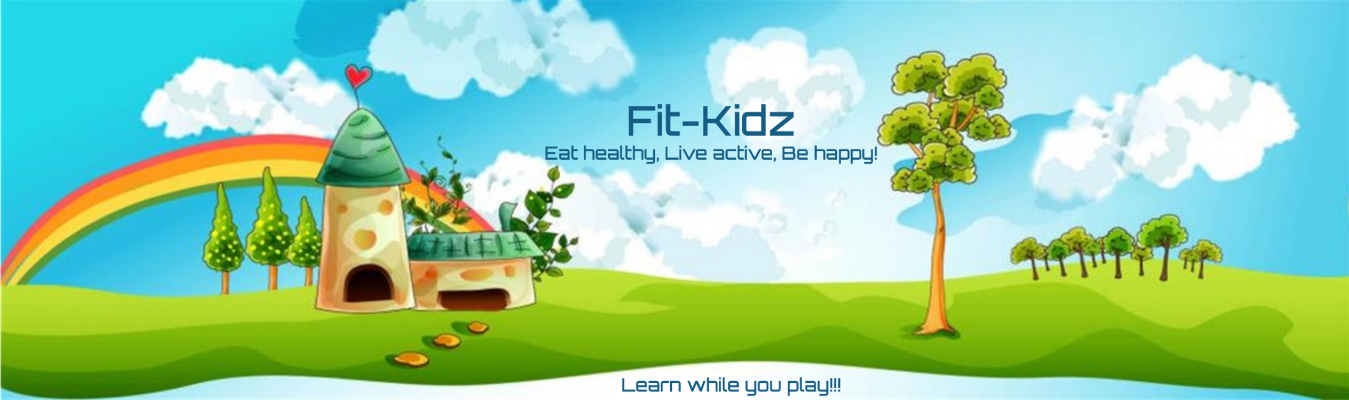
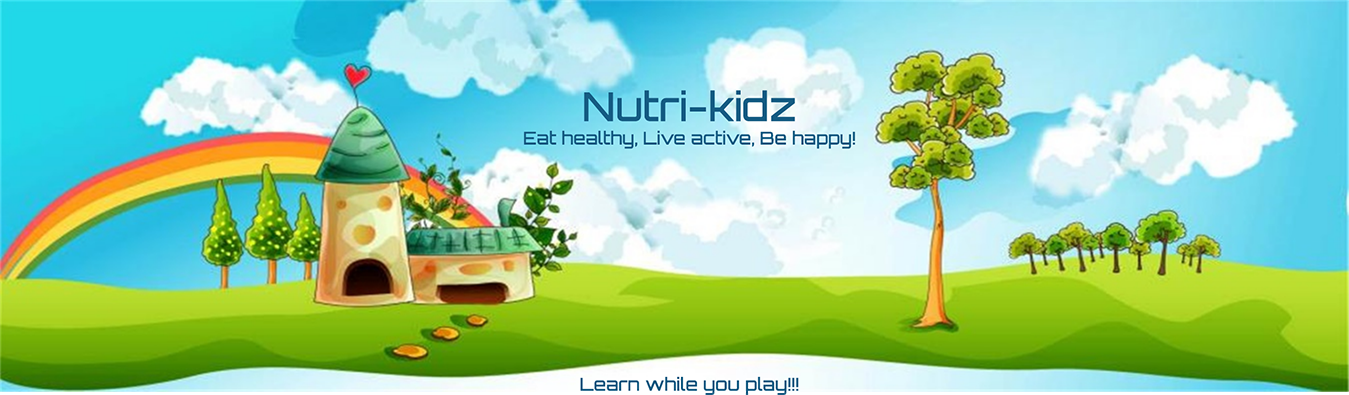
iteration 4 fix 2.0-about page fixed, Error information fixed

diff --git a/application/index/view/index/about.html b/application/index/view/index/about.html
@@ -1,39 +1,37 @@
 {extend name="layout/base" }
 {block name="style"}
-  <meta http-equiv="Content-Type" content="text/html; charset=UTF-8">
-  <meta name="description" content="Aviato E-Commerce Template">
+<meta http-equiv="Content-Type" content="text/html; charset=UTF-8"/>
+<meta name="description" content="Aviato E-Commerce Template"/>
 
-  <meta name="author" content="Themefisher.com">
+<meta name="author" content="Themefisher.com"/>
 
-  <title>Fit-Kidz</title>
+<title>Fit-Kidz</title>
 
+<!-- Mobile Specific Meta-->
+<meta name="viewport" content="width=device-width, initial-scale=1"/>
+<!-- Favicon -->
+<link rel="shortcut icon" type="image/x-icon" href="img/favicon.png"/>
+<!-- bootstrap.min css -->
+<!--<link rel="stylesheet" href="/assets/css/plugins/bootstrap/css/bootstrap.min.css"/>-->
+<!-- Ionic Icon Css -->
+<link rel="stylesheet" href="/assets/css/plugins/Ionicons/css/ionicons.min.css"/>
+<!-- animate.css -->
+<link rel="stylesheet" href="/assets/css/plugins/animate-css/animate.css"/>
+<!-- Magnify Popup -->
+<link rel="stylesheet" href="/assets/css/plugins/magnific-popup/dist/magnific-popup.css"/>
+<!-- Owl Carousel CSS -->
+<link rel="stylesheet" href="/assets/css/plugins/slick-carousel/slick/slick.css"/>
+<link rel="stylesheet" href="/assets/css/plugins/slick-carousel/slick/slick-theme.css"/>
 
-    <!-- Mobile Specific Meta-->
-    <meta name="viewport" content="width=device-width, initial-scale=1">
-    <!-- Favicon -->
-    <link rel="shortcut icon" type="image/x-icon" href="img/favicon.png" />
-    <!-- bootstrap.min css -->
-    <link rel="stylesheet" href="/assets/css/plugins/bootstrap/css/bootstrap.min.css">
-    <!-- Ionic Icon Css -->
-    <link rel="stylesheet" href="/assets/css/plugins/Ionicons/css/ionicons.min.css">
-    <!-- animate.css -->
-    <link rel="stylesheet" href="/assets/css/plugins/animate-css/animate.css">
-    <!-- Magnify Popup -->
-    <link rel="stylesheet" href="/assets/css/plugins/magnific-popup/dist/magnific-popup.css">
-    <!-- Owl Carousel CSS -->
-    <link rel="stylesheet" href="/assets/css/plugins/slick-carousel/slick/slick.css">
-    <link rel="stylesheet" href="/assets/css/plugins/slick-carousel/slick/slick-theme.css">
-
-    <!-- Main Stylesheet -->
-
-    <link rel="stylesheet" href="/assets/css/style.css">
-    <link rel="stylesheet" href="/assets/css/about.css">
-
+<!-- Main Stylesheet -->
+<link rel="stylesheet" href="/assets/css/style.css"/>
+<link rel="stylesheet" href="/assets/css/bootstrap.min.css"/>
+<link rel="stylesheet" href="/assets/css/about.css">
 {/block}
-
 {block name="content-body"}
 
-<!-- Header Start -->
+<body id="page-top">
+
 <section class="slider">
     <div class="container">
         <div class="row">
@@ -47,23 +45,23 @@
         </div>
     </div>
 </section>
-<!--<section class="page-title bg-2">-->
-  <!--<div class="container">-->
-    <!--<div class="row">-->
-      <!--<div class="col-md-12">-->
-        <!--<div class="block">-->
-          <!--<h1>About Us</h1>-->
-          <!--<p>We are Mr. Three from the Facutly of IT at Monash University.</p>-->
-        <!--</div>-->
-      <!--</div>-->
-    <!--</div>-->
-  <!--</div>-->
-<!--</section>-->
-<!--<br> -->
+
+<section class="feature bg-22">
+
+    <div class="container">
+        <div class="row">
+            <div class="col-md-6 col-md-offset-6">
+                <h2 class="section-subtitle">What Nutri-Kidz provide.</h2>
+                <p>Nutri-Kidz is a website which aims at helping combat the issues surrounding child obesity in kids aged between 9-12 years of age so that they grow up to be healthy young adults. This website educates children about the importance of having a healthy diet and leading an active life style.</p>
+            </div>
+        </div>
+    </div>
+</section>
+
 <section id="two" class="container">
     <div class="inner">
         <header>
-            <center><h2>Mr. Three</h2>
+            <center><h2>About the Team -- Mr. Three</h2>
                 <p>Facutly of IT - Monash University</p></center>
         </header>
         <div class="flex flex-4">
@@ -94,60 +92,6 @@
 <section id="three" class="container">
     <center><p><h4>This website Fit-Kidz was built as a part of our final semester industry experience studio for the topic "Eat, Drink, Breath... Basic Human Rights".</h4></p></center>
 </section>
-<!-- footer Start -->
-<!--<footer class="footer">
-	<div class="container">
-		<div class="row">
-			<div class="col-md-12">
-				<div class="footer-manu">
-					<ul>
-						<li><a href="#">About Us</a></li>
-						<li><a href="#">Contact us</a></li>
-						<li><a href="#">How it works</a></li>
-						<li><a href="#">Support</a></li>
-						<li><a href="#">Terms</a></li>
-					</ul>
-				</div>
-				<p class="copyright">Copyright 2018 &copy; Design & Developed by <a href="http://www.themefisher.com">themefisher.com</a>. All rights reserved.
-					<br>
-					Get More <a href="https://themefisher.com/free-bootstrap-templates/" target="_blank">Free Bootstrap Templates</a>
-				</p>
-			</div>
-		</div>
-	</div>
-</footer>-->
 
-    <!-- 
-    Essential Scripts
-    =====================================-->
-    
-    <!-- <script src="js/jquery.counterup.js"></script> -->
-    
-    <!-- Main jQuery -->
-   
-    <script src="https://code.jquery.com/jquery-git.min.js"></script>
-    <!-- Bootstrap 3.1 -->
-    <script src="plugins/bootstrap/js/bootstrap.min.js"></script>
-    <!-- Owl Carousel -->
-    <script src="plugins/slick-carousel/slick/slick.min.js"></script>
-    <!--  -->
-    <script src="plugins/magnific-popup/dist/jquery.magnific-popup.min.js"></script>
-    <!-- Mixit Up JS -->
-    <script src="plugins/mixitup/dist/mixitup.min.js"></script>
-    <!-- <script src="plugins/count-down/jquery.lwtCountdown-1.0.js"></script> -->
-    <script src="plugins/SyoTimer/build/jquery.syotimer.min.js"></script>
-
-
-    <!-- Form Validator -->
-    <script src="http://cdnjs.cloudflare.com/ajax/libs/jquery.form/3.32/jquery.form.js"></script>
-    <script src="http://cdnjs.cloudflare.com/ajax/libs/jquery-validate/1.11.1/jquery.validate.min.js"></script>
-
-
-    
-    <!-- Google Map -->
-    <!--<script src="plugins/google-map/map.js"></script>
-    <script src="https://maps.googleapis.com/maps/api/js?key=AIzaSyAkeLMlsiwzp6b3Gnaxd86lvakimwGA6UA&callback=initMap"></script>    -->
-
-    <script src="js/script.js"></script>
-
+</body>
 {/block}

diff --git a/application/index/view/index/home.html b/application/index/view/index/home.html
@@ -8,7 +8,7 @@
   
   <!--<meta name="author" content="Themefisher.com">-->
 
-  <title>Fit-Kidz</title>
+  <title>Nutri-Kidz</title>
 
   <!-- Mobile Specific Meta-->
   <meta name="viewport" content="width=device-width, initial-scale=1">
@@ -39,6 +39,8 @@
 				<div class="block">
 					<h1 class="animated fadeInUp"></h1>
 					<p class="animated fadeInUp"></p>
+                    <br><br><br><br>
+                    <a class="btn btn-main btn-solid-border" style="left:-70% " href="{$site_info.health_url}" target="_top">Play Now!</a>
 					<!--<a href="https://themefisher.com/free-bootstrap-templates/" target="_blank" class="btn btn-main animated fadeInUp" >Free Bootstrap Templates</a>-->
 				</div>
 			</div>
@@ -75,16 +77,16 @@
 	</div>
 </section>
 
-<section class="feature bg-22">
-  <div class="container">
-    <div class="row">
-      <div class="col-md-6 col-md-offset-6">
-        <h2 class="section-subtitle">What Fit Kidz provide.</h2>
-        <p>Fit-kidz is a website which aims at helping combat the issues surrounding child obesity in kids aged between 9-12 years of age so that they grow up to be healthy young adults. This website educates children about the importance of having a healthy diet and leading an active life style.</p>
-      </div>
-    </div>
-  </div>
-</section>
+<!--<section class="feature bg-22">-->
+  <!--<div class="container">-->
+    <!--<div class="row">-->
+      <!--<div class="col-md-6 col-md-offset-6">-->
+        <!--<h2 class="section-subtitle">What Nutri-Kidz provide.</h2>-->
+        <!--<p>Nutri-Kidz is a website which aims at helping combat the issues surrounding child obesity in kids aged between 9-12 years of age so that they grow up to be healthy young adults. This website educates children about the importance of having a healthy diet and leading an active life style.</p>-->
+      <!--</div>-->
+    <!--</div>-->
+  <!--</div>-->
+<!--</section>-->
 
 <!-- Service Start -->
 <section class="service">
@@ -92,7 +94,7 @@
     <div class="row">
       <div class="section-title">
         <h2>Key Features</h2>
-        <p>Fit Kidz aims at helping young children between the ages of 9 and 12 years by providing them with the following services</p>
+        <p>Nutri-Kidz aims at helping young children between the ages of 9 and 12 years by providing them with the following services</p>
       </div>
     </div>
     <div class="row ">

diff --git a/application/index/view/user/rightmenu.html b/application/index/view/user/rightmenu.html
@@ -8,3 +8,68 @@
     <p class="am-margin-vertical-xs"><a href="{:url('/index/user/point_logs/user_id/'.$user_id)}">Point Log </a></p>
     <p class="am-margin-vertical-xs"><a href="{:url('/logout')}">Log out</a></p>
 </div>
+<br>
+<div class="am-container br_lf br_rg br_bt br_tp_g am-text-center am-padding-sm">
+    <h2 class="font_green am-margin-bottom-xs">Points vs Levels</h2>
+    <div style="text-align: center;left:50%;right:50%;">
+        <table class="point_table">
+            <thead>
+            <tr>
+                <td><h4>Points</h4></td>
+                <td><h4>Level</h4></td>
+                <td><h4>Display</h4></td>
+            </tr>
+            </thead>
+
+            <tbody>
+            <tr>
+                <td>10~90</td>
+                <td>1</td>
+                <td><img src="/assets/image/1.png"></td>
+            </tr>
+            <tr>
+                <td>100~190</td>
+                <td>2</td>
+                <td><img src="/assets/image/2.png"></td>
+            </tr>
+            <tr>
+                <td>200~290</td>
+                <td>3</td>
+                <td><img src="/assets/image/3.png"></td>
+            </tr>
+            <tr>
+                <td>300~390</td>
+                <td>4</td>
+                <td><img src="/assets/image/4.png"></td>
+            </tr>
+            <tr>
+                <td>400~490</td>
+                <td>5</td>
+                <td><img src="/assets/image/5.png"></td>
+            </tr>
+            <tr>
+                <td>500~590</td>
+                <td>6</td>
+                <td><img src="/assets/image/6.png"></td>
+            </tr>
+            <tr>
+                <td>600~690</td>
+                <td>7</td>
+                <td><img src="/assets/image/7.png"></td>
+            </tr>
+            <tr>
+                <td>700~790</td>
+                <td>8</td>
+                <td><img src="/assets/image/8.png"></td>
+            </tr>
+            <tr>
+                <td>800~890</td>
+                <td>9</td>
+                <td><img src="/assets/image/9.png"></td>
+            </tr>
+            </tbody>
+        </table>
+    </div>
+
+</div>
+<br>

diff --git a/application/index/view/user/index.html b/application/index/view/user/index.html
@@ -36,7 +36,7 @@
                             <li class="font_green am-padding-vertical-sm">Sex：<a>{if condition="$user_info['sex'] eq 0"}Boy{else /}Girl {/if}</a></li>
                             <li class="font_green am-padding-vertical-xs">Point：<a>{:$user_info['point']}</a></li>
                             <li class="font_green am-padding-vertical-xs">Last Login：<a><?php echo date("Y-m-d H:i:s",$user_info['login_time']);?></a></li>
-                            <li class="font_green am-padding-vertical-xs">Current Leve：{if condition="$level['level'] neq 0"}<img src="/assets/image/{:$level['level']}.png">{else /} -- {/if}</li>
+                            <li class="font_green am-padding-vertical-xs">Current Level：{if condition="$level['level'] neq 0"}<img src="/assets/image/{:$level['level']}.png">{else /} -- {/if}</li>
                             <li class="font_green am-padding-vertical-xs">You need {:$level['needpoints']} points to next level：<img src="/assets/image/{:$level['level']+1}.png"></li>
                         </ul>
                     </div>

diff --git a/public/assets/js/drag&drop.js b/public/assets/js/drag&drop.js
@@ -67,7 +67,7 @@
             // };
             if (i === 4 ) {
                 if(times > 7){
-                    var msg ='Good Job!';
+                    var msg ='Congratulations!! </br> You have successfully ranked the foods! </br> You can play again';
                 }else{
                     var msg ='Difficulty level up !! </br>You have ranked the food level correctly and got 10 points! Congratulations!  </br>You can try this again!';
                 }
@@ -110,6 +110,7 @@
                     if (num == 0) {
 
                         layer.confirm('Use out of times, you will not get points. Please try again!', {
+                            title: 'Oops',
                             btn: ['Ok'] //按钮
                         }, function(){
                             window.location.href = '/health';

diff --git a/application/index/view/user/foodranktest.html b/application/index/view/user/foodranktest.html
@@ -11,7 +11,6 @@
             <p class="sf">
             <h1 style="margin-bottom: 0px">Choose food that you want to eat </h1>
             <h2 style="padding: 0px;margin: 0px">(2 in total ,you can choose none)</h2>
-            <h3 style="padding: 0px;margin: 0px">* Please note Fit-Kidz currently does not cater to our users allergies.*</h3>
             </p>
             <input class="send" value="0"  type="hidden" />
             <!--<button class="send " data-counter="0">&#10004;</button>-->

diff --git a/public/assets/js/common.js b/public/assets/js/common.js
@@ -46,9 +46,10 @@ var Tools = {
                 console.log(this);
             },
             error: function () {
-                layer.alert('error output', {
+                layer.alert('User name exists.', {
+                    title: "Error",
                     skin: 'layui-layer-molv'
-                    , closeBtn: 0
+                    , btn: 'OK'
                     , shift: 4 //动画类型
                 });
             }

diff --git a/application/index/view/user/point_logs.html b/application/index/view/user/point_logs.html
@@ -29,8 +29,8 @@
                     <table class="am-table am-table-bordered am-table-striped am-table-hover">
                         <thead>
                         <tr>
-                            <th>Point</th>
-                            <th>Times</th>
+                            <th>Points</th>
+                            <th>Time</th>
                         </tr>
                         </thead>
                         <tbody>

diff --git a/application/index/view/layout/header.html b/application/index/view/layout/header.html
@@ -31,7 +31,7 @@
 								</li>
 								<!--<li {if condition="$action eq 'reg'"} class="am-active" {/if}>-->
 								<li>	
-									<a href="{$site_info.about_url}" >About Us</a>
+									<a href="{$site_info.about_url}" >About</a>
 								<!--</li>-->
 								</li>
 

diff --git a/application/index/view/layout/footer.html b/application/index/view/layout/footer.html
@@ -1,6 +1,7 @@
 <footer class="footer">
+    <p>* Please note Nutri-Kidz currently does not cater to our users allergies.*</p>
     <p>
-        Copyright © Fit-Kidz.tk 2018
+        Copyright © Nutri-Kidz.tk 2018
     </p>
 </footer>
 

diff --git a/public/assets/css/style.css b/public/assets/css/style.css
@@ -789,7 +789,7 @@ font header .navbar-default .navbar-nav li a:hover {
 
 .service {
   text-align: center;
-  padding: 90px 0;
+  /*padding: 90px 0;*/
 }
 
 .service .service-item {

diff --git a/public/assets/css/user.css b/public/assets/css/user.css
@@ -31,3 +31,10 @@
 
 .font_bold{font-weight: bold;}
 .font_normal{ font-weight: normal;}
+
+.point_table td, th
+{
+    border:1px solid #058CEB;
+    padding:2%;
+
+}
